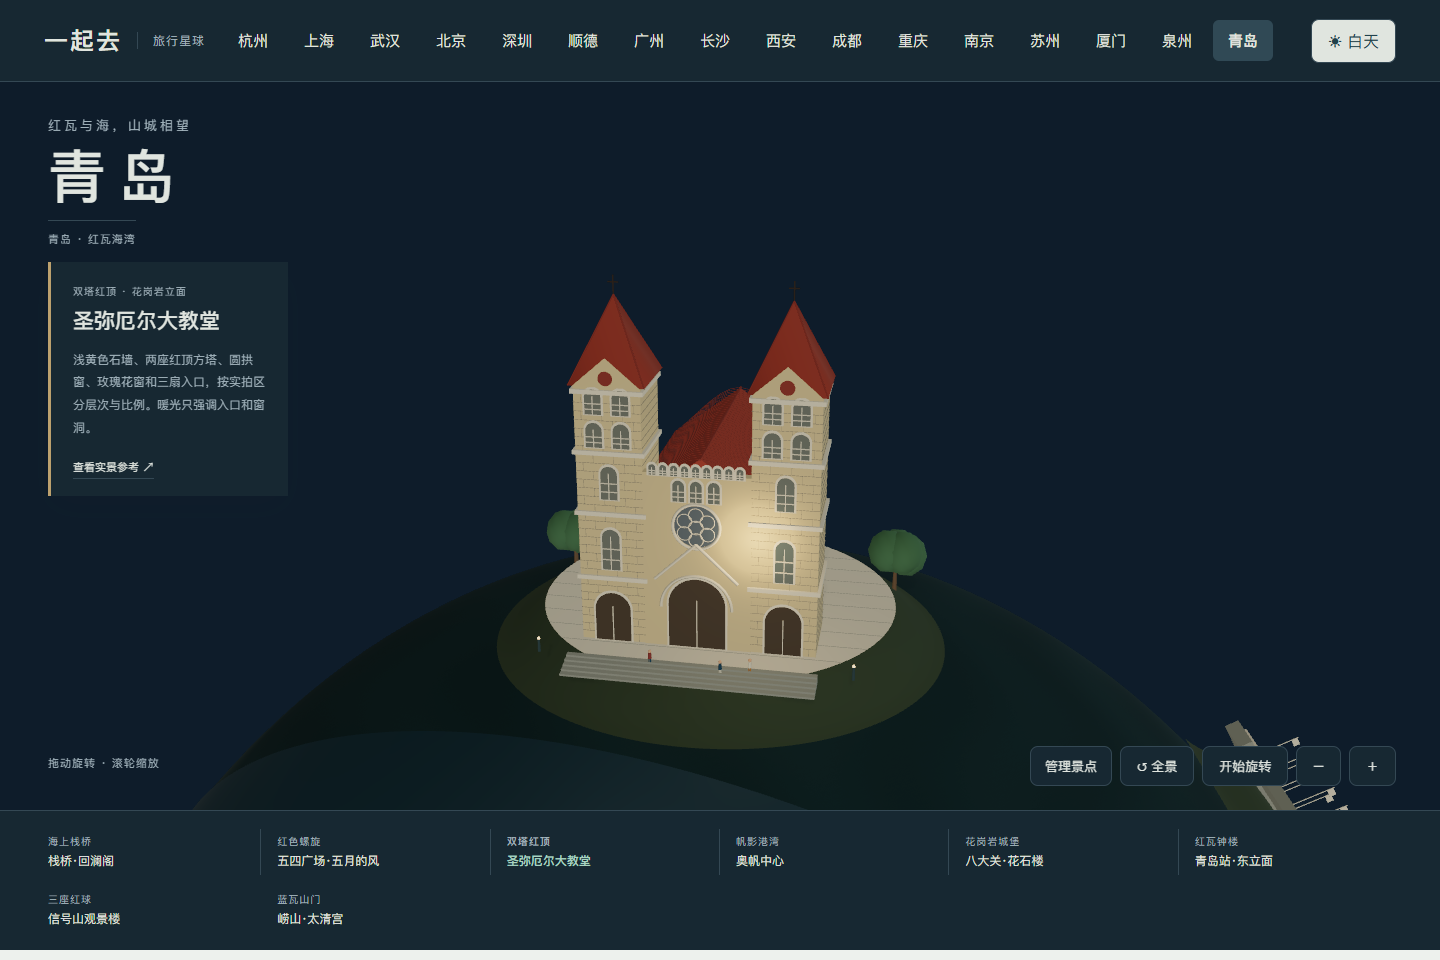
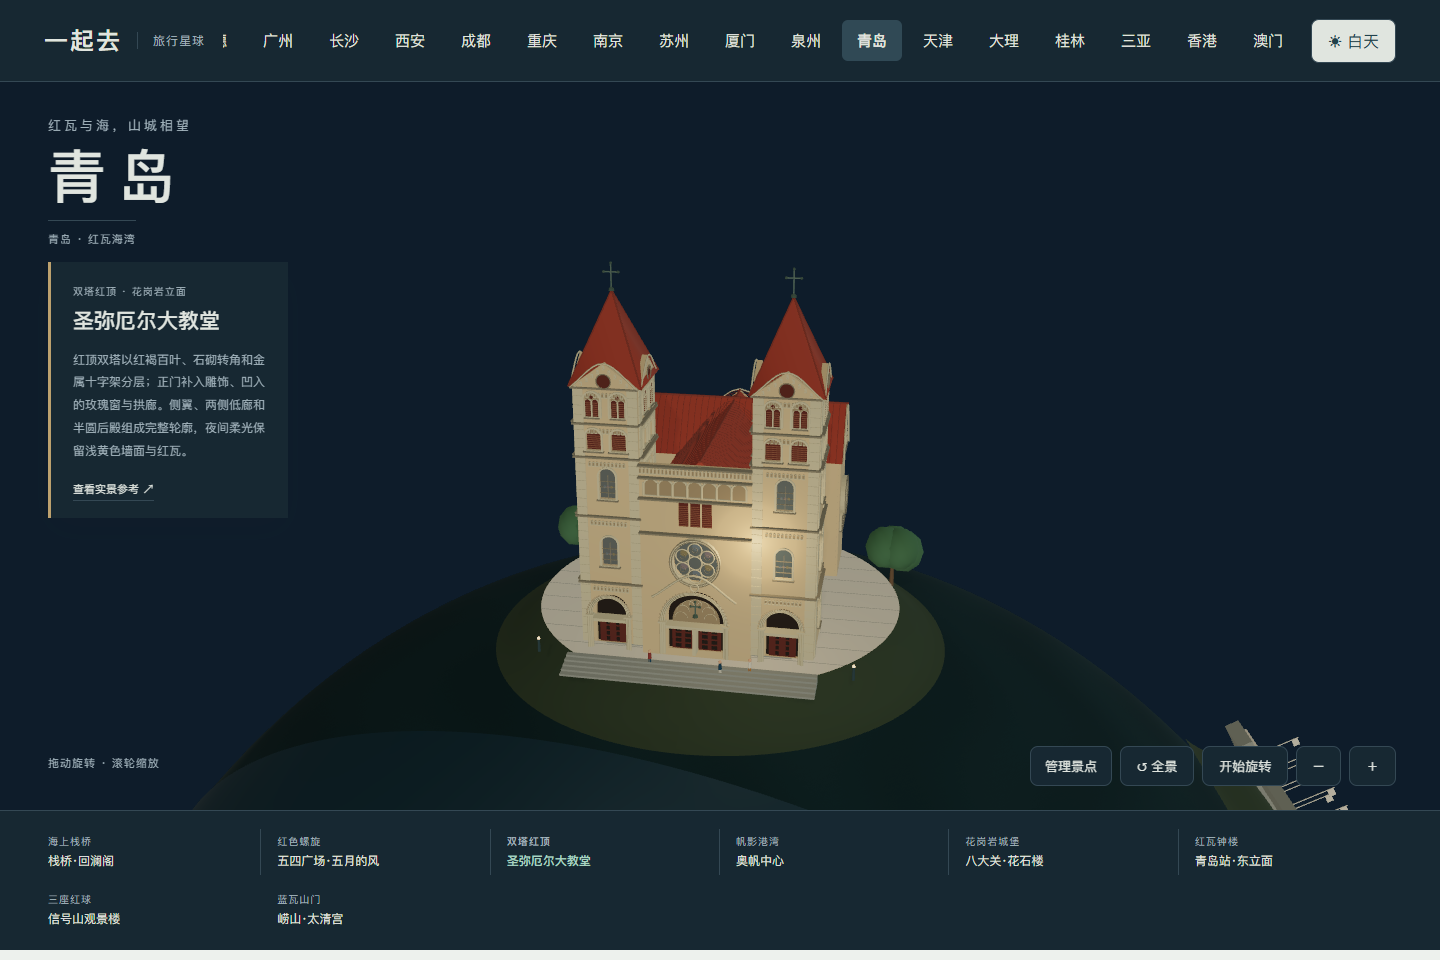
Refine Qingdao cathedral silhouette and stone details

diff --git a/web/qingdao-church.js b/web/qingdao-church.js
@@ -1,0 +1,70 @@
+import * as THREE from 'three';
+import {palette,site,paving,steps,grove,finish,gable,pyramid,lit,TAU,skin} from './qingdao-kit.js';
+function arch(w,h,Path=THREE.Shape){const s=new Path();s.moveTo(-w/2,0);s.lineTo(w/2,0);s.lineTo(w/2,h-w/2);s.absarc(0,h-w/2,w/2,0,Math.PI,false);s.lineTo(-w/2,0);s.closePath();return s;}
+function transformPath(path,x,y){for(const c of path.curves){for(const key of ['v0','v1','v2','v3'])if(c[key]?.isVector2)c[key].add(new THREE.Vector2(x,y));if(c.isEllipseCurve){c.aX+=x;c.aY+=y;}}return path;}
+function wall(k,g,p,w,h,holes=[]){const s=new THREE.Shape();s.moveTo(-w/2,0);s.lineTo(w/2,0);s.lineTo(w/2,h);s.lineTo(-w/2,h);s.closePath();for(const q of holes){const path=q.round?new THREE.Path().absarc(q.x,q.y,q.w/2,0,TAU,true):transformPath(arch(q.w,q.h,THREE.Path),q.x,q.y);s.holes.push(path);}return k.mesh(g,new THREE.ExtrudeGeometry(s,{depth:.012,bevelEnabled:false,curveSegments:16}),p.wall,0,0,-.012);}
+function window(k,g,p,x,y,w,h,{shutter=false,blind=false,paired=false,recessed=false}={}){
+ const pad=Math.min(.009,w*.25),frame=arch(w+pad,h+pad*.66);frame.holes.push(transformPath(arch(w,h,THREE.Path),0,.002));k.mesh(g,new THREE.ExtrudeGeometry(frame,{depth:.005,bevelEnabled:false,curveSegments:18}),p.pale,x,y-.002,.001);
+ k.mesh(g,new THREE.ShapeGeometry(arch(w,h),20),blind?p.recess:shutter?p.shutter:p.glass,x,y,recessed?-.008:.002);
+ if(!blind)k.box(g,w+pad*1.5,.003,.021,p.sill,x,y-.003,-.001);
+ if(blind)return;
+ if(shutter){for(let j=1;j<(h-w*.5)/.005;j++)k.box(g,w-.003,.0015,.003,p.slats,x,y+j*.005,recessed?-.005:.004);if(paired)k.box(g,.002,h-w*.5,.005,p.pale,x,y+(h-w*.5)/2,.001);}
+ else{for(let j=1;j<4;j++)k.box(g,w,.001,.004,p.sill,x,y+(h-w*.5)*j/4,recessed?-.003:.005);k.box(g,.001,h-w*.45,.004,p.sill,x,y+(h-w*.45)/2,recessed?-.003:.005);for(let i=0;i<3;i++){const o=k.mesh(g,new THREE.CircleGeometry(w*.09,8),p.tint[i],x+(i-1)*w*.21,y+h*.38,recessed?-.002:.006);}}
+}
+function arcade(k,g,p,w,y,n=12,h=.012){for(let i=0;i<n;i++){const x=((i+.5)/n-.5)*w;window(k,g,p,x,y,w/n*.58,h,{blind:true});}}
+function quoins(k,g,p,w,h){for(const side of [-1,1])for(let j=0;j<h/.023;j++)k.box(g,.025,.022,.003,p.pale,side*(w/2-.0125),.011+j*.023,.001);}
+function cross(k,g,p,x,y,z,h=.060){k.box(g,.003,h,.003,p.bronze,x,y,z);k.box(g,h*.60,.003,.003,p.bronze,x,y+h*.15,z);for(const [dx,dy]of [[0,h/2],[0,-h/2],[-h*.30,h*.15],[h*.30,h*.15]])k.ball(g,.0035,p.bronze,x+dx,y+dy,z);k.cyl(g,.006,.007,.006,p.bronze,x,y-h*.55,z,16);}
+function rose(k,g,p,x,y,r){const s=new THREE.Shape().absarc(0,0,r+.007,0,TAU,false);s.holes.push(new THREE.Path().absarc(0,0,r,0,TAU,true));k.mesh(g,new THREE.ExtrudeGeometry(s,{depth:.014,bevelEnabled:false}),p.pale,x,y,-.002);k.mesh(g,new THREE.CircleGeometry(r,64),p.glass,x,y,-.009);for(const rr of [r+.002,r+.007])k.mesh(g,new THREE.TorusGeometry(rr,.0014,6,64),p.sill,x,y,.014);
+ const small=r*.31;k.mesh(g,new THREE.TorusGeometry(small,.0018,6,48),p.pale,x,y,.010);for(let i=0;i<6;i++){const a=i*TAU/6,xx=x+Math.sin(a)*r*.63,yy=y+Math.cos(a)*r*.63;k.mesh(g,new THREE.CircleGeometry(r*.17,24),p.tint[i%3],xx,yy,-.008);k.mesh(g,new THREE.TorusGeometry(small,.0018,6,36),p.pale,xx,yy,.010);k.mesh(g,new THREE.TorusGeometry(r*.12,.0006,5,24),p.sill,xx,yy,.011);}}
+function doorway(k,g,p,x,w,h,main=false,base=.04){const spring=h-w/2;for(let ring=0;ring<3;ring++){const r=w/2+.004+ring*.004;k.line(g,Array.from({length:37},(_,i)=>[x+Math.cos(i/36*Math.PI)*r,base+spring+Math.sin(i/36*Math.PI)*r,.026+ring*.002]),.0018,p.pale);for(const side of [-1,1]){k.cyl(g,.0028,.0035,spring,p.pale,x+side*r,base+spring/2,.027+ring*.002,10);k.box(g,.012,.004,.016,p.pale,x+side*r,base+spring-.002,.029);}}
+ for(let i=0;i<28;i++){const a=i/27*Math.PI;k.ball(g,.0021,p.carving,x+Math.cos(a)*(w/2+.015),base+spring+Math.sin(a)*(w/2+.015),.032);}
+ k.mesh(g,new THREE.ShapeGeometry(arch(w,h),24),p.door,x,base,-.010);k.box(g,w+.014,.008,.031,p.pale,x,base+spring*.8,.010);
+ const leaves=main?2:1;for(let i=0;i<leaves;i++){const xx=x+(i-(leaves-1)/2)*w*.47;k.box(g,w*(main?.40:.82),spring*.75,.003,p.shutter,xx,base+spring*.375,-.006);for(let row=0;row<4;row++)for(let col=0;col<2;col++){const cx=xx+(col-.5)*w*(main?.17:.31),cy=base+spring*(.10+row*.16);k.box(g,w*.10,spring*.10,.002,p.door,cx,cy,-.003);}}
+ if(main){k.box(g,.009,spring*.8,.032,p.pale,x,base+spring*.4,.013);const fan=arch(w*.84,h*.40);k.mesh(g,new THREE.ShapeGeometry(fan),p.recess,x,base+spring*.83,-.002);cross(k,g,p,x,base+spring+w*.21,.010,w*.26);for(let i=0;i<7;i++){const a=i/6*Math.PI;k.line(g,Array.from({length:10},(_,j)=>{const b=j/9*Math.PI;return [x+Math.cos(a)*w*.26+Math.cos(b)*w*.11,base+spring+Math.sin(a)*w*.26+Math.sin(b)*w*.11,.005];}),.0007,p.pale);}}
+}
+function triangular(k,g,p,w,h,y,{round=true}={}){const s=new THREE.Shape();s.moveTo(-w/2,0);s.lineTo(w/2,0);s.lineTo(0,h);s.closePath();k.mesh(g,new THREE.ExtrudeGeometry(s,{depth:.013,bevelEnabled:false}),p.wall,0,y,-.008);k.line(g,[[-w/2,y,.008],[0,y+h,.008],[w/2,y,.008]],.002,p.pale);for(let i=-5;i<=5;i++){const x=i*w/12,yy=y+h*(1-Math.abs(x)/(w/2))-.014;window(k,g,p,x,yy,.005,.010,{blind:true});}if(round){k.mesh(g,new THREE.CircleGeometry(w*.10,32),p.shutter,0,y+h*.30,.007);k.mesh(g,new THREE.TorusGeometry(w*.105,.0015,6,40),p.sill,0,y+h*.30,.009);}}
+function bellTower(k,g,p,x){const t=new THREE.Group();t.position.set(x,.04,.25);g.add(t);const w=.158,d=.18,levels=[0,.170,.350,.505,.590,.680];
+ for(let face=0;face<4;face++){const a=face*TAU/4,f=new THREE.Group();f.rotation.y=a;f.position.set(Math.sin(a)*w/2,0,Math.cos(a)*d/2);t.add(f);
+  for(let level=0;level<5;level++){const start=levels[level],end=levels[level+1],s=new THREE.Group();s.position.y=start;f.add(s);const holes=[];
+   if(level===0){if(face===0)holes.push({x:0,y:0,w:.083,h:.135});else holes.push({x:0,y:.055,w:.032,h:.063});}
+   if(level===1||level===2)holes.push({x:0,y:.047,w:.041,h:.080});
+   if(level===3)for(const xx of [-.031,.031])holes.push({x:xx,y:.017,w:.038,h:.055});
+   if(level===4)for(const xx of [-.032,.032])holes.push({x:xx,y:.018,w:.039,h:.061});
+   wall(k,s,p,w,end-start,holes);quoins(k,s,p,w,end-start);k.box(s,w+.008,.004,.018,p.sill,0,end-start,.001);arcade(k,s,p,w*.60,end-start-.022,10,.011);
+   for(const o of holes){if(level===0&&face===0)doorway(k,s,p,0,.083,.135,false,0);else if(level===4){window(k,s,p,o.x,o.y,o.w,o.h,{blind:true,recessed:true});for(const dx of [-.009,.009])window(k,s,p,o.x+dx,o.y,.015,.044,{shutter:true});k.mesh(s,new THREE.CircleGeometry(.0045,20),p.shutter,o.x,o.y+.050,.006);}else window(k,s,p,o.x,o.y,o.w,o.h,{shutter:level>=3,recessed:true});}
+  }
+  triangular(k,f,p,w+.010,.062,.680);
+ }
+ pyramid(k,t,p,.181,.218,.680,0,0);cross(k,t,p,0,.932,0,.060);
+}
+function roundApse(k,g,p){const z=-.30;
+ for(const [r,y,h]of [[.225,.04,.145],[.141,.218,.132]]){const o=k.mesh(g,new THREE.CylinderGeometry(r,r,h,64,1,false,Math.PI/2,Math.PI),p.wall,0,y+h/2,z);o.material.userData.churchMasonry=true;
+  for(const [rr,yy]of [[r+.004,y+h-.006],[r+.002,y+.006]])k.mesh(g,new THREE.CylinderGeometry(rr,rr,.005,64,1,true,Math.PI/2,Math.PI),p.pale,0,yy,z);
+  for(let i=0;i<7;i++){const a=Math.PI*.55+i*Math.PI*.90/6,f=new THREE.Group();f.position.set(Math.sin(a)*(r+.002),y+.027,z+Math.cos(a)*(r+.002));f.rotation.y=a;g.add(f);window(k,f,p,0,0,.025,h*.58);arcade(k,f,p,.058,h-.044,6,.010);}
+  const rise=r>.2?.052:.092,outer=r+.010,top=y+h+rise,inside=r>.2?.135:0;skin(k,g,(u,v)=>{const a=Math.PI/2+u*Math.PI,rr=inside+(outer-inside)*v;return [Math.sin(a)*rr,top-rise*v,z+Math.cos(a)*rr];},8,64,p.tile);
+  for(let j=1;j<=8;j++){const v=j/8,rr=inside+(outer-inside)*v;k.line(g,Array.from({length:65},(_,i)=>{const a=Math.PI/2+i/64*Math.PI;return [Math.sin(a)*rr,top-rise*v+.0008,z+Math.cos(a)*rr];}),.0006,p.red);}
+ }
+}
+export function church(k){
+ const g=new THREE.Group(),p=palette(k),h=site(k,g,.63,.61);paving(k,g,p,.50,.48);p.wall=k.mat('#c9b28a',.97);p.wall.userData.churchMasonry=true;p.pale=k.mat('#c4b998',.96);p.sill=k.mat('#8d8570',.94);p.recess=k.mat('#a08d6e',.98);p.door=k.mat('#3c332c',.96);p.shutter=k.mat('#713e32',.95);p.slats=k.mat('#94624b',.95);p.bronze=k.mat('#5e7063',.68,.30);p.carving=k.mat('#b3a284',.97);p.glass=lit(k,'#40565e',.06);p.tint=['#536a78','#6b6570','#746d4c'].map(c=>lit(k,c,.055));p.tile=k.mat('#a9523c',.96);p.red=k.mat('#8f4b3a',.95);
+ // An open nave, side aisles, crossing and stepped semicircular apse form the actual silhouette.
+ k.box(g,.48,.015,.68,p.stone,0,.035,-.015);
+ for(const side of [-1,1]){const f=new THREE.Group();f.position.set(side*.14,.04,-.025);f.rotation.y=side*Math.PI/2;g.add(f);wall(k,f,p,.57,.345);for(let bay=0;bay<3;bay++){const xx=-.20+bay*.145;for(let j=-1;j<=1;j++)window(k,f,p,xx+j*.031,.205,.025,.075);arcade(k,f,p,.12,.320,12,.012);}
+  k.box(g,.11,.174,.57,p.wall,side*.204,.127,-.025);const roof=new THREE.Group();roof.position.set(side*.205,.214,-.025);g.add(roof);gable(k,roof,p,.13,.59,.046,0);
+  const aisle=new THREE.Group();aisle.position.set(side*.260,.04,-.025);aisle.rotation.y=side*Math.PI/2;g.add(aisle);for(let i=0;i<6;i++)window(k,aisle,p,-.24+i*.09,.035,.026,.066);
+ }
+ gable(k,g,p,.30,.61,.14,.387,0,-.025);
+ const crossing=new THREE.Group();crossing.rotation.y=Math.PI/2;crossing.position.z=-.235;g.add(crossing);for(const x of [-.087,.087])k.box(crossing,.010,.348,.62,p.wall,x,.214,0);gable(k,crossing,p,.20,.64,.146,.388);
+ for(const side of [-1,1]){const f=new THREE.Group();f.position.set(side*.316,.04,-.235);f.rotation.y=side*Math.PI/2;g.add(f);wall(k,f,p,.18,.348,[{x:0,y:.219,w:.099,round:true}]);rose(k,f,p,0,.219,.049);for(const xx of [-.04,0,.04])window(k,f,p,xx,.130,.030,.053);triangular(k,f,p,.195,.144,.348,{round:false});for(const xx of [-.035,0,.035])window(k,f,p,xx,.365,.018,.050+(xx===0?.035:0),{shutter:true});}
+ const rear=new THREE.Group();rear.position.set(0,.04,-.334);rear.rotation.y=Math.PI;g.add(rear);wall(k,rear,p,.28,.348);triangular(k,rear,p,.30,.14,.348,{round:false});for(const xx of [-.036,0,.036])window(k,rear,p,xx,.366,.018,.046+(xx===0?.036:0),{shutter:true});roundApse(k,g,p);
+ // The western facade has a recessed rose, blind upper arcade and sculpted entrance.
+ const front=new THREE.Group();front.position.z=.343;g.add(front);wall(k,front,p,.278,.536,[{x:0,y:.04,w:.144,h:.164},{x:0,y:.287,w:.112,round:true}]);doorway(k,front,p,0,.144,.164,true);rose(k,front,p,0,.287,.056);
+ k.line(front,[[-.106,.195,.028],[0,.261,.028],[.106,.195,.028]],.003,p.pale);k.mesh(front,new THREE.TorusGeometry(.010,.002,6,32),p.pale,0,.224,.018);
+ for(const x of [-.029,0,.029]){k.box(front,.024,.062,.006,p.shutter,x,.411,-.001);for(let j=0;j<11;j++)k.box(front,.023,.0014,.004,p.slats,x,.383+j*.005,.002);}
+ for(let i=0;i<7;i++){const x=(i-3)*.036;window(k,front,p,x,.458,.032,.040,{blind:true});k.cyl(front,.0025,.003,.034,p.pale,x-.018,.475,.009,8);}
+ arcade(k,front,p,.278,.514,30,.014);for(const y of [.358,.449,.503,.534])k.box(front,.280,.004,.020,p.sill,0,y,.005);
+ for(const x of [-.218,.218])bellTower(k,g,p,x);
+ steps(k,g,p,0,.485,.63,5,.025,.075);grove(k,g,h,[[-.47,-.28,.14],[.47,-.30,.14]]);
+ finish(k,g,{lamps:[[-.40,.024,.39],[.4,.024,.39]],visitors:[[-.10,.046,.43],[.08,.046,.45],[.15,.046,.43]]});
+ for(const x of [-.26,.26]){const l=new THREE.SpotLight('#e4d6b8',0,1.3,.64,.85,2);l.position.set(x,.62,.82);l.target.position.set(x,.43,.30);l.userData.nightIntensity=.045;g.add(l,l.target);}return g;
+}

diff --git a/web/qingdao-heritage.js b/web/qingdao-heritage.js
@@ -1,28 +1,6 @@
 import * as THREE from 'three';
 import {palette,site,paving,steps,grove,finish,archPane,gable,pyramid,cross,masonry,clockFace,lit,sign,TAU} from './qingdao-kit.js';
-export function church(k){
- const g=new THREE.Group(),p=palette(k),h=site(k,g,.63,.59);paving(k,g,p,.49,.46);
- k.box(g,.36,.34,.60,p.wall,0,.211,-.035);gable(k,g,p,.40,.62,.15,.381,0,-.035);
- for(const side of [-1,1]){
-  const x=side*.218;k.box(g,.166,.68,.18,p.wall,x,.379,.235);masonry(k,g,p,.166,.68,.18,x,.039,.235);
-  for(const y of [.215,.39,.55,.705])k.box(g,.181,.011,.192,p.pale,x,y,.235);
-  archPane(k,g,p,x,.041,.328,.092,.134,{door:true});archPane(k,g,p,x,.24,.328,.045,.11);archPane(k,g,p,x,.43,.328,.042,.087);
-  for(const y of [.565,.649])for(const dx of [-.034,.034])archPane(k,g,p,x+dx,y,.328,.041,.063);
-  pyramid(k,g,p,.189,.205,.719,x,.235);cross(k,g,p,x,.948,.235,.046);
-  const ped=new THREE.Shape();ped.moveTo(-.084,0);ped.lineTo(.084,0);ped.lineTo(0,.073);ped.closePath();k.mesh(g,new THREE.ShapeGeometry(ped),p.wall,x,.718,.331);k.mesh(g,new THREE.CircleGeometry(.018,32),p.red,x,.741,.334);
- }
- k.box(g,.273,.47,.025,p.wall,0,.273,.313);
- archPane(k,g,p,0,.042,.33,.145,.19,{door:true});
- const frame=[];for(let i=0;i<=30;i++){const a=i/30*Math.PI;frame.push([Math.cos(a)*.09,.155+Math.sin(a)*.09,.34]);}k.line(g,frame,.004,p.pale);
- k.beam(g,[-.105,.23,.339],[0,.33,.339],.004,p.pale);k.beam(g,[0,.33,.339],[.105,.23,.339],.004,p.pale);
- const rose=lit(k,'#536673',.04);k.mesh(g,new THREE.CircleGeometry(.056,48),rose,0,.375,.329);k.mesh(g,new THREE.TorusGeometry(.059,.004,6,48),p.pale,0,.375,.333);k.mesh(g,new THREE.TorusGeometry(.018,.0015,5,32),p.pale,0,.375,.338);
- for(let i=0;i<6;i++){const a=i/6*TAU;k.mesh(g,new THREE.TorusGeometry(.018,.0015,5,24),p.pale,Math.sin(a)*.033,.375+Math.cos(a)*.033,.338);}
- for(let i=0;i<3;i++)archPane(k,g,p,(i-1)*.044,.439,.331,.029,.055);
- for(let i=0;i<9;i++)archPane(k,g,p,(i-4)*.027,.506,.333,.017,.027);
- for(const side of [-1,1])for(let i=0;i<4;i++){const q=new THREE.Group();q.position.set(side*.181,.11,-.26+i*.13);q.rotation.y=side*Math.PI/2;g.add(q);archPane(k,q,p,0,0,0,.056,.14);}
- steps(k,g,p,0,.485,.63,5,.025,.075);grove(k,g,h,[[-.49,-.23,.14],[.48,-.25,.14]]);
- return finish(k,g,{lamps:[[-.40,.024,.39],[.4,.024,.39]],visitors:[[-.10,.046,.43],[.08,.046,.45],[.15,.046,.43]]});
-}
+export {church} from './qingdao-church.js';
 export function station(k){
  const g=new THREE.Group(),p=palette(k),h=site(k,g,.69,.48);paving(k,g,p,.60,.34);
  k.box(g,1.04,.25,.29,p.wall,0,.16,-.03);const roof=new THREE.Group();roof.position.z=-.03;roof.rotation.y=Math.PI/2;g.add(roof);gable(k,roof,p,.32,1.10,.12,.285);

diff --git a/web/qingdao-landmarks.js b/web/qingdao-landmarks.js
@@ -49,8 +49,8 @@ export const LANDMARKS=[
    0.65,
    1.8
   ],
-  "description": "浅黄色石墙、两座红顶方塔、圆拱窗和玫瑰花窗，衬托三扇深色入口。夜晚的暖光从窗洞透出。",
-  "source": "https://you.ctrip.com/sight/qingdao5/5320.html",
+  "description": "红顶双塔以红褐百叶、石砌转角和金属十字架分层；正门补入雕饰、凹入的玫瑰窗与拱廊。侧翼、两侧低廊和半圆后殿组成完整轮廓，夜间柔光保留浅黄色墙面与红瓦。",
+  "source": "https://beyondvision.cn/show/956.html",
   "grounded": true
  },
  {

diff --git a/README.md b/README.md
@@ -1,6 +1,6 @@
 # 一起去 · Travel Planet
 
-用可旋转的 3D 城市星球发现景点，再和朋友一起决定怎么旅行。当前版本 **0.55.8**，支持桌面和手机网页。
+用可旋转的 3D 城市星球发现景点，再和朋友一起决定怎么旅行。当前版本 **0.55.9**，支持桌面和手机网页。
 
 **[上海旅行 · 在线体验](https://43.139.249.151/travel/shanghai-trip.html)** · **[杭州旅行](https://43.139.249.151/travel/)** · **[武汉旅行](https://43.139.249.151/travel/wuhan-trip.html)** · **[武汉纯地图](https://43.139.249.151/travel/wuhan.html)** · **[上海纯地图](https://43.139.249.151/travel/shanghai.html)** · **[北京地图](https://43.139.249.151/travel/beijing.html)** · **[深圳地图](https://43.139.249.151/travel/shenzhen.html)** · **[顺德地图](https://43.139.249.151/travel/shunde.html)** · **[广州地图](https://43.139.249.151/travel/guangzhou.html)** · **[长沙地图](https://43.139.249.151/travel/changsha.html)** · **[西安地图](https://43.139.249.151/travel/xian.html)** · **[成都地图](https://43.139.249.151/travel/chengdu.html)** · **[重庆地图](https://43.139.249.151/travel/chongqing.html)** · **[南京地图](https://43.139.249.151/travel/nanjing.html)** · **[苏州地图](https://43.139.249.151/travel/suzhou.html)** · **[厦门地图](https://43.139.249.151/travel/xiamen.html)** · **[泉州地图](https://43.139.249.151/travel/quanzhou.html)** · **[青岛地图](https://43.139.249.151/travel/qingdao.html)** · **[天津地图](https://43.139.249.151/travel/tianjin.html)** · **[大理地图](https://43.139.249.151/travel/dali.html)** · **[桂林地图](https://43.139.249.151/travel/guilin.html)** · **[三亚地图](https://43.139.249.151/travel/sanya.html)** · **[香港地图](https://43.139.249.151/travel/hongkong.html)** · **[澳门地图](https://43.139.249.151/travel/macau.html)**
 

diff --git a/docs/QINGDAO_REFERENCES.md b/docs/QINGDAO_REFERENCES.md
@@ -14,3 +14,16 @@
 | 崂山太清宫 | [山门实拍](https://sg.trip.com/travel-guide/attraction/qingdao/bay-of-taiqing-palace-24653096/)、[三清殿实拍](https://www.trip.com/travel-guide/attraction/qingdao/laoshan-taiqing-palace-76762/) | 蓝绿瓦三段山门、红墙、石狮、灰瓦殿堂、山石与古树。官方图片超时，改用上述游客实拍核看；未将网络介绍当作已看过图片。 |
 
 提供日夜、自由旋转、两半球分布、景点近看、整组增删保存与手机触控。青岛目前为景观地图，未接入多人旅行，不套用原三城目录，也不虚构票价、营业时间和预约信息。
+
+
+## 0.55.9 圣弥厄尔大教堂精修
+
+对照[摄影方的正侧背资料、钟楼与后殿近照](https://beyondvision.cn/show/956.html)及既有正面实拍，补全十字形侧翼、两侧低廊和两级半圆后殿。双塔改为红褐色百叶，补石砌转角、山花与金属十字架；入口采用三组凹入门洞、拱饰、红木门扇和石柱。中央玫瑰窗有实际墙洞和下沉玻璃，钟楼百叶与石柱保持进深。
+
+红瓦、浅黄色墙面和灰白石材保留日夜差异，展示照明只做低亮柔光。模型属于微缩表达，未逐块复原石雕，也不代表真实夜游或灯光活动。照片仅供内部观察，没有作为贴图或公开资源分发。
+
+![教堂日景](images/qingdao-church.png)
+
+![侧翼与后殿](images/qingdao-church-oblique.png)
+
+![夜间展示](images/qingdao-church-night.png)

diff --git a/docs/TESTING.md b/docs/TESTING.md
@@ -259,3 +259,10 @@ python tools/travel-flow-check.py
 328 项完整测试、333 项 JavaScript 语法检查通过。新增射线检查覆盖两塔五层八面，确认四个真实门洞与四个实心龛位逐层交错，洞旁石墙保留。原八组两半球球面净空、夜景颜色、减少动态及整组资源释放检查保持通过。
 
 2026-11-04 08:07—08:14 完成两轮隔离草稿与正式模型日夜、正侧背和 320 截图核看；修正屋面纹理、塔刹与匾额位置。08:13—08:15 完整浏览器验收通过八组日夜、整组保存恢复、触控键盘、320—1440 显示与真实 WebGL 上下文恢复，异常及业务写入为 0。手机是浏览器模拟，未声称物理设备性能验证。
+
+
+## 0.55.9 青岛教堂精修
+
+329 项完整测试、334 项 JavaScript 语法检查通过。新增射线检查验证玫瑰窗与钟楼成对窗洞真实开口，窗旁石墙和中柱保留；原八组球面净空、日夜颜色与资源释放测试通过。
+
+2026-11-04 08:19—08:23 完成三轮隔离草稿和正式模型日夜、正侧背、320 截图核看，修正被墙遮住的窗片、过厚拱饰及后殿屋顶。08:23—08:25 完整浏览器验收八组日夜、整组保存恢复、触控键盘、320—1440、WebGL 恢复与城市导航，异常和业务写入为 0。390 管理面板已直接核看。手机为浏览器模拟。
